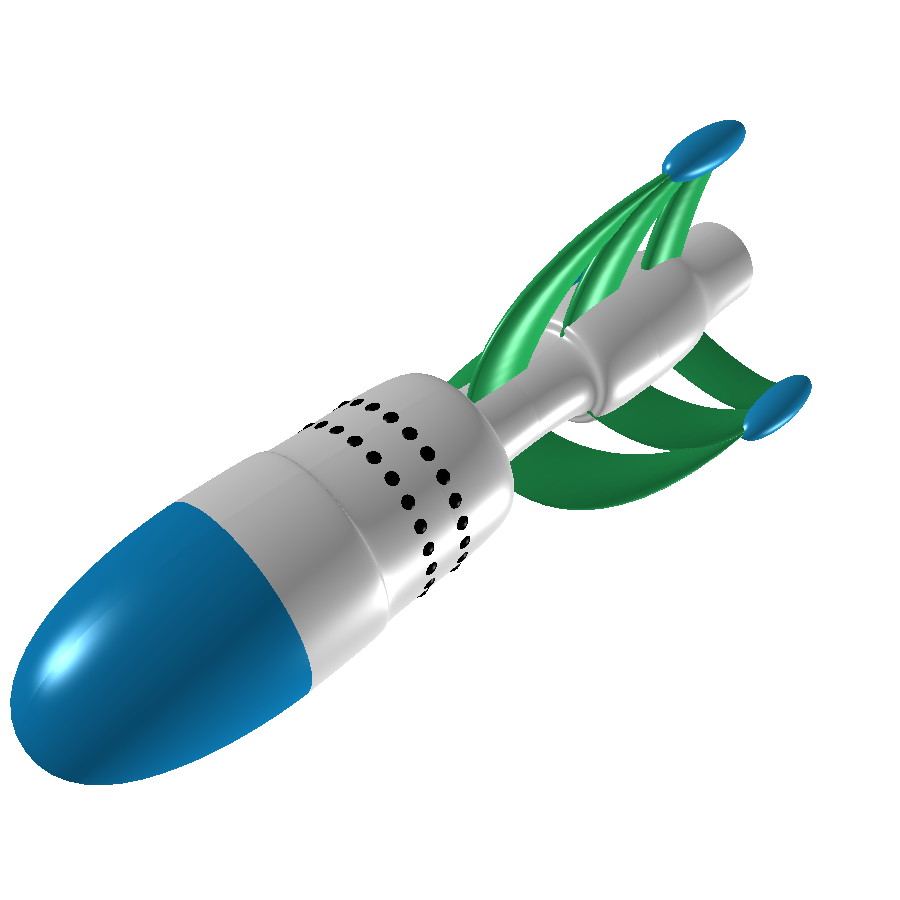
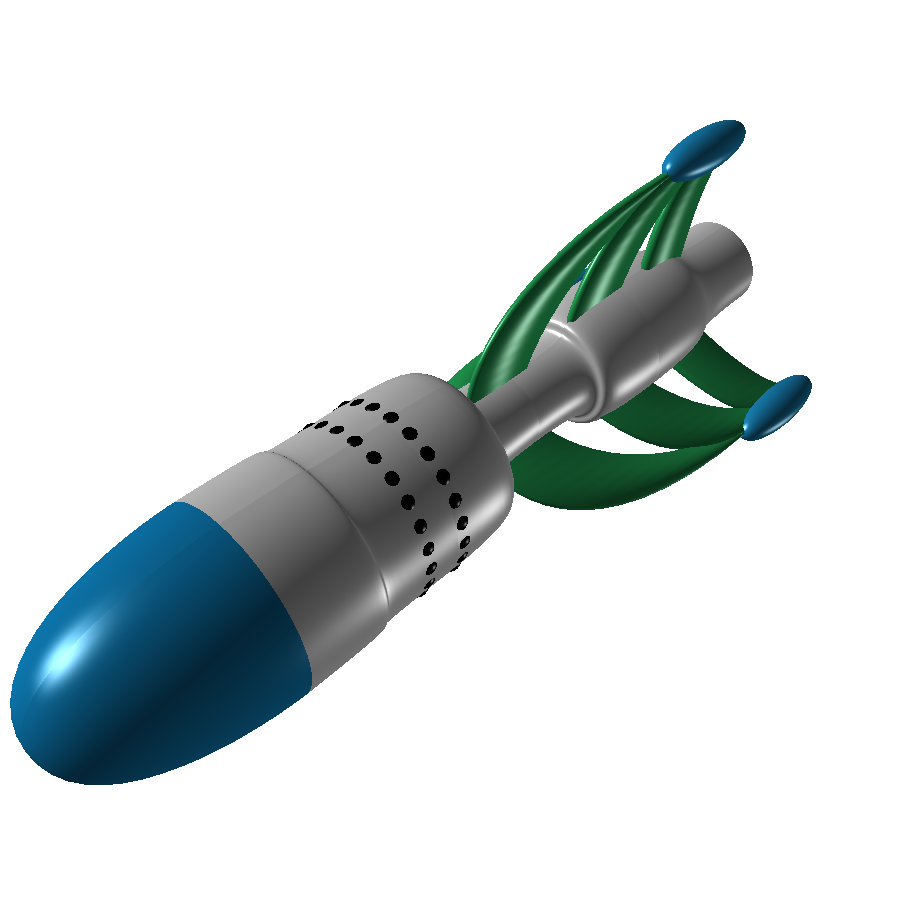
fixed save into txt

Changed region(s): [[0.0311, 0.1244, 0.9022, 0.8711]]

diff --git a/rocket_creator/js/GuiCreator.js b/rocket_creator/js/GuiCreator.js
@@ -356,13 +356,15 @@ function id_value(id,value){
 var ids = [];
 function start_data_writer(){
     var lamp_ids = [
-        "intensity_ambient",
-        "x_ambient","y_ambient","z_ambient",
-        "intensity_directional",
+        "intensity_ambient","color_ambient",
+        "x_ambient","y_ambient","z_ambient","color_ground_ambient",
+        
+        "intensity_directional","color_directional",
         "x_directional","y_directional","z_directional",
         
-        "intensity_point",
+        "intensity_point","color_point",
         "x_point","y_point","z_point",
+        "color_background",
         "distance_view","y_view","z_view" //tr18
     ];
     
@@ -387,13 +389,15 @@ function start_data_writer(){
     ];
     var lamp_values = [
         
-        1,
-        1,1,1,
-        1,
+        1,"#FFFFFF",
+        1,1,1,"#000000",
+        
+        1,"#FFFFFF",
         500,500,500,
         
-        0.3,
+        0.3,"#FFFFFF",
         500,500,500,
+        "#FFFFFF",
         800,45,45//tr18 lamp
     ];
     
